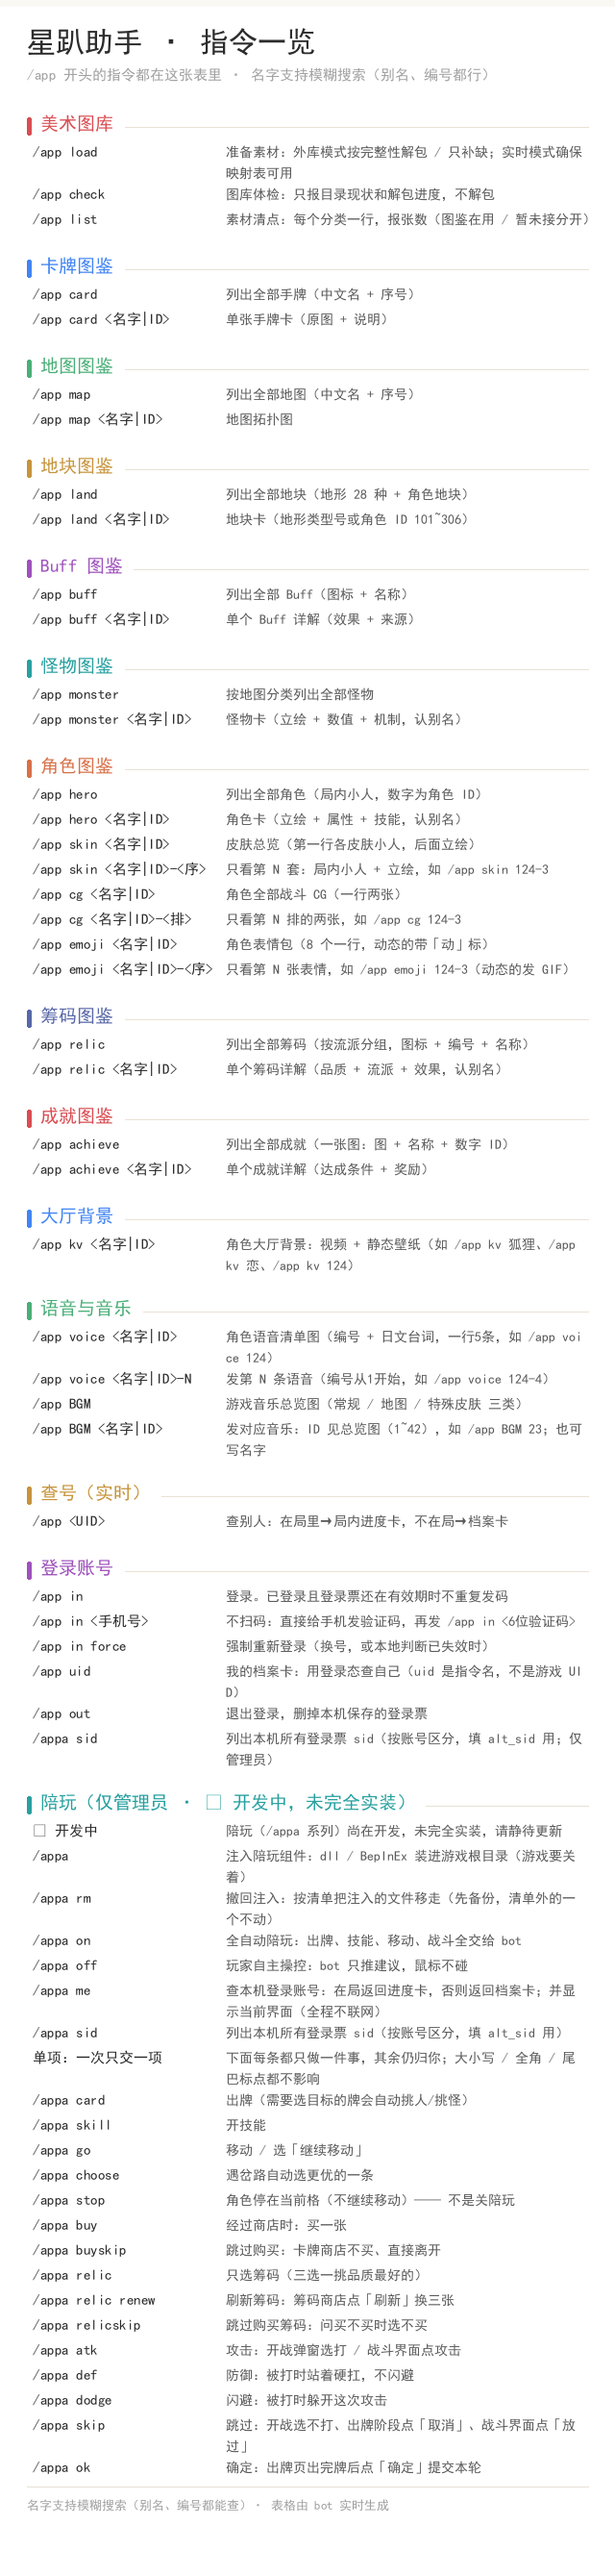
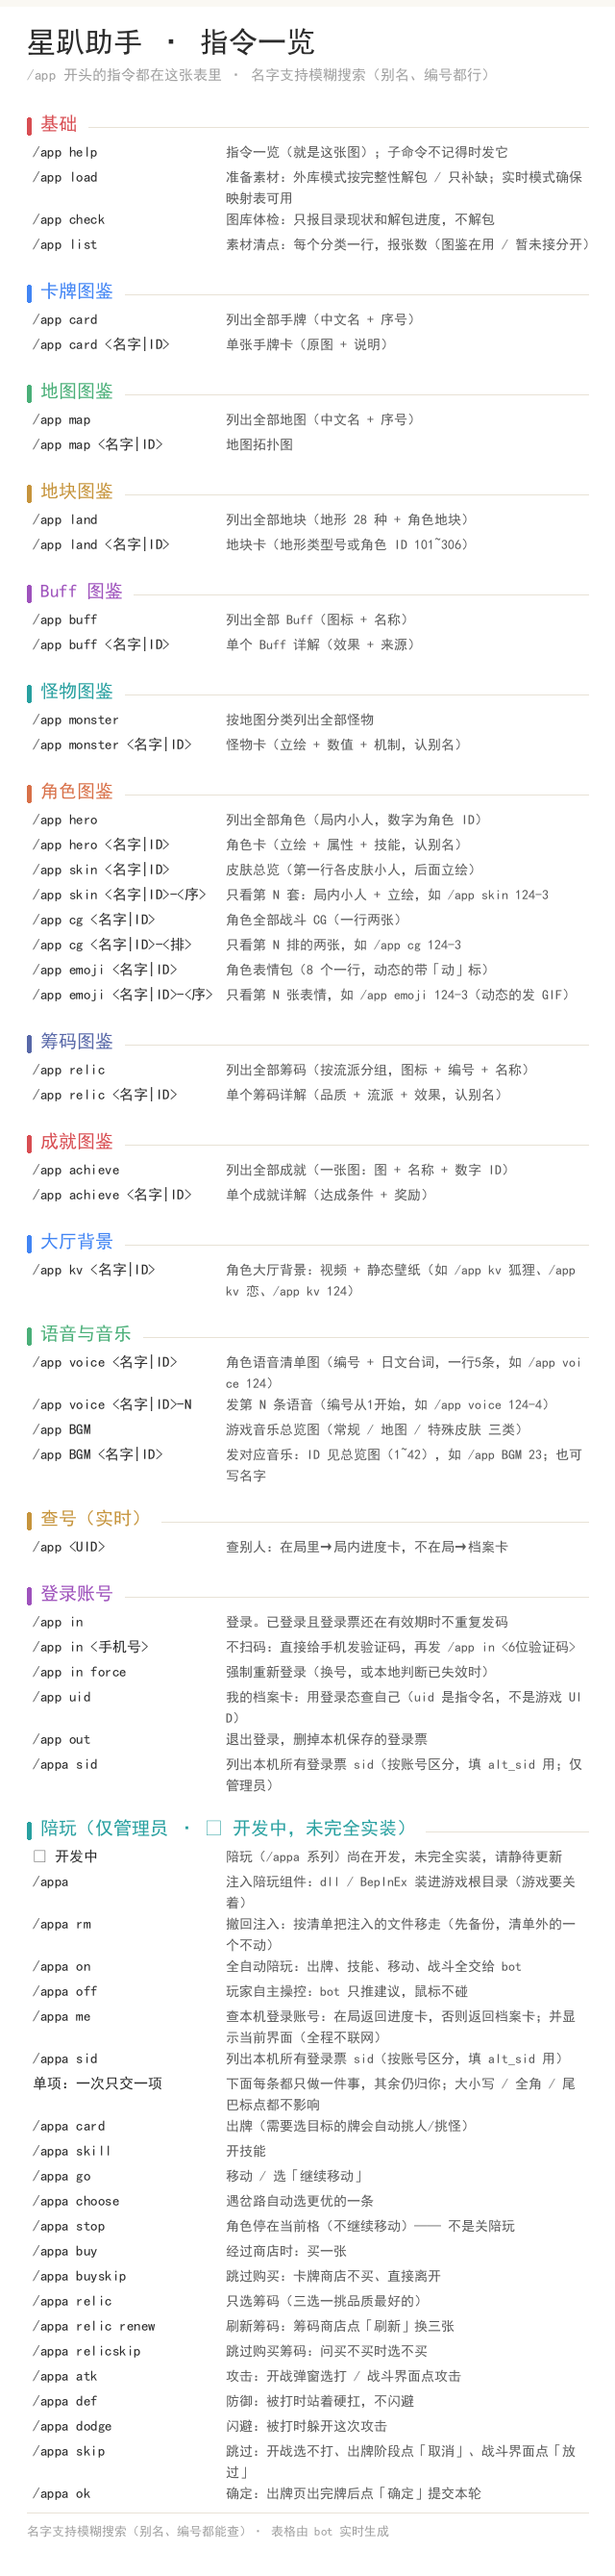
docs(help): 补 /app help 到指令一览，新增「基础」分组；按主人改动同步 README，重渲 help.png

diff --git a/main.py b/main.py
@@ -90,7 +90,8 @@ def _profile_text(d: dict) -> str:
 
 # 指令一览：图片卡和纯文本都从这份数据生成，改一处两边同步
 HELP_SECTIONS = [
-    ("🖼", "美术图库", [
+    ("💡", "基础", [
+        ("/app help", "指令一览（就是这张图）；子命令不记得时发它"),
         ("/app load", "准备素材：外库模式按完整性解包 / 只补缺；实时模式确保映射表可用"),
         ("/app check", "图库体检：只报目录现状和解包进度，不解包"),
         ("/app list", "素材清点：每个分类一行，报张数（图鉴在用 / 暂未接分开）"),

diff --git a/README.md b/README.md
@@ -43,65 +43,65 @@
 
 ![指令一览（发送 /app help 的渲染图）](docs/help.png)
 
-| 指令                      | 说明                                                             |
-| ----------------------- | -------------------------------------------------------------- |
-| `/app help`             | 指令一览                                                           |
-| `/app load`             | 解包美术素材，可完整性检验                                                  |
-| `/app check`            | 返回目录现状和解包配置                                                    |
-| `/app list`             | 素材清点，每类一行                                                      |
-| `/app card`             | 列出所有手牌中文名与序号                                                   |
-| `/app card <名字\|ID>`    | 渲染手牌简介卡（原图 + 说明）                                               |
-| `/app map`              | 列出所有地图中文名与序号                                                   |
-| `/app map <名字\|ID>`     | 渲染地图拓扑图                                                        |
-| `/app land`             | 全部地块（地形 28 种 + 角色地块）                                           |
-| `/app land <名字\|ID>`    | 地块卡（地形类型号或角色 ID 101~306）                                       |
-| `/app buff`             | 全 Buff 图鉴                                                      |
-| `/app buff <名字\|ID>`    | 单个 Buff 详解（效果 + 来源）                                            |
-| `/app monster`          | 按地图分类列出所有怪物                                                    |
-| `/app monster <名字\|ID>` | 怪物简介卡（立绘 + 数值 + 机制，支持别名与模糊匹配）                                  |
-| `/app hero`             | 全角色图鉴                                                          |
-| `/app hero <名字\|ID>`    | 角色简介卡（立绘 + 属性 + 技能，支持别名与模糊匹配）                                  |
-| `/app skin <名字\|ID>`    | 角色皮肤一览                                                         |
-| `/app skin <名字\|ID>-<序>` | 只看第 N 套皮肤：局内小人 + 立绘，如 `/app skin 124-3`|
-| `/app cg <名字\|ID>`      | 角色战斗 CG                                                        |
-| `/app cg <名字\|ID>-<排>`   | 只看第 N 排的两张 CG，如 `/app cg 124-3`|
-| `/app emoji <名字\|ID>`   | 角色表情包（动态那张右上角带「动」标）                                        |
-| `/app emoji <名字\|ID>-<序>` | 只看第 N 张表情，如 `/app emoji 124-3`；动态表情直接发 GIF                     |
-| `/app relic`            | 全筹码图鉴（按流派分组）                                                   |
-| `/app relic <名字\|ID>`   | 单筹码详情（品质 + 流派 + 效果说明，认别名）                                      |
-| `/app achieve`          | 全成就图鉴                                                          |
-| `/app achieve <名字\|ID>` | 单成就详情（达成条件 + 奖励）                                               |
-| `/app kv <名字\|ID>` | 角色大厅背景：**视频 + 静态壁纸**（认编号/名字/别名，如 `/app kv 狐狸`、`/app kv 恋`、`/app kv 124`；输出每段约 5 秒循环视频） |
-| `/app voice <名字\|ID>` | 角色语音清单图（编号 + 日文台词，一行 5 条；认编号/名字/别名） |
-| `/app voice <名字\|ID>-<N>` | 试听第 N 条语音（编号从 1 起，如 `/app voice 124-5`） |
-| `/app BGM` | 游戏音乐总览图：常规 / 地图 / 特殊皮肤 三类，ID 1~42 |
-| `/app BGM <名字\|ID>` | 听对应音乐（ID 见总览图 1~42），如 `/app BGM 23`、`/app BGM 龙宫 I阶段` |
-| `/app <UID>`            | 查别人，在局返回进度卡，否则返回档案卡（需要小号登录票防顶主号，获取`sid`指令为`/appa sid`）         |
-| `/app in`               | 登录账号：扫描二维码`feimo`通行证验证码登录                                      |
-| `/app in <手机号>`         | 扫码失败或网页访问失败，直接给该手机号发验证码（`/app in <6位验证码>` 完成登录）                |
-| `/app uid`              | 我的档案卡：用登录态查自己（`uid` 是指令名，不是游戏 UID）                             |
-| `/app out`              | 退出登录，删掉本机保存的登录票                                                |
-| `/appa`                 | 注入陪玩组件：`dll / BepInEx` 装进游戏根目录（请先关闭游戏） |
-| `/appa rm`              | 撤回注入：按注入清单移除所有注入的文件（备份到游戏根目录 `_pilot_backup\uninstall-时间戳\`） |
-| `/appa on`              | 全自动陪玩：出牌、技能、移动、战斗全交给 bot |
-| `/appa off`             | 玩家自主操控：bot 只推建议，鼠标不碰 |
-| `/appa me`              | 查本机登录账号：在局返回进度卡，否则返回档案卡；回执里附**当前界面**（含探针页面栈原始读数，便于核对） |
-| `/appa sid`             | 列出本机所有登录票 `sid`（按账号区分，填 `alt_sid` 用，仅管理员） |
-| `/appa card`            | 出牌（需要选目标的牌会自动挑人 / 挑怪） |
-| `/appa skill`           | 开技能 |
-| `/appa go`              | 移动 / 选「继续移动」 |
-| `/appa choose`          | 岔路自动选更优的一条 |
-| `/appa stop`            | 角色停在当前格、不继续移动（**不是关陪玩**，关陪玩发 `/appa off`） |
-| `/appa buy`             | 经过商店时：买一张 |
-| `/appa buyskip`         | 跳过购买：卡牌商店不买、直接离开 |
-| `/appa relic`           | 选筹码（三选一挑品质最好的） |
-| `/appa relic renew`     | 刷新筹码：筹码商店点「刷新」换三张（花金币） |
-| `/appa relicskip`       | 跳过购买筹码：问买不买时选不买 |
-| `/appa atk`             | 攻击：开战弹窗选打 / 战斗界面点攻击 |
-| `/appa def`             | 防御：被打时站着硬扛（不闪避） |
-| `/appa dodge`           | 闪避：被打时躲开这次攻击 |
-| `/appa skip`            | 跳过：开战选不打、出牌阶段点「取消」、战斗界面点「放过」 |
-| `/appa ok`              | 确定：出牌页出完牌后点「确定」提交本轮 |
+| 指令                      | 说明                                                                                     |
+| ----------------------- | -------------------------------------------------------------------------------------- |
+| `/app help`             | 指令一览                                                                                   |
+| `/app load`             | 解包美术素材，可完整性检验                                                                          |
+| `/app check`            | 返回目录现状和解包配置                                                                            |
+| `/app list`             | 素材清点，每类一行                                                                              |
+| `/app card`             | 列出所有手牌中文名与序号                                                                           |
+| `/app card <名字\|ID>`    | 渲染手牌简介卡（原图 + 说明）                                                                       |
+| `/app map`              | 列出所有地图中文名与序号                                                                           |
+| `/app map <名字\|ID>`     | 渲染地图拓扑图                                                                                |
+| `/app land`             | 全部地块（地形 28 种 + 角色地块）                                                                   |
+| `/app land <名字\|ID>`    | 地块卡（地形类型号或角色 ID 101~306）                                                               |
+| `/app buff`             | 全 Buff 图鉴                                                                              |
+| `/app buff <名字\|ID>`    | 单个 Buff 详解（效果 + 来源）                                                                    |
+| `/app monster`          | 按地图分类列出所有怪物                                                                            |
+| `/app monster <名字\|ID>` | 怪物简介卡（立绘 + 数值 + 机制，支持别名与模糊匹配）                                                          |
+| `/app hero`             | 全角色图鉴                                                                                  |
+| `/app hero <名字\|ID>`    | 角色简介卡（立绘 + 属性 + 技能，支持别名与模糊匹配）                                                          |
+| `/app skin <名字\|ID>`    | 角色皮肤一览                                                                                 |
+| `/app skin <名字\|ID>-N`  | 只看第 N 套皮肤：局内小人 + 立绘，如 `/app skin 124-3`                                                |
+| `/app cg <名字\|ID>`      | 角色战斗 CG                                                                                |
+| `/app cg <名字\|ID>-N`    | 只看第 N 排的两张 CG，如 `/app cg 124-3`                                                        |
+| `/app emoji <名字\|ID>`   | 角色表情包（动态那张右上角带「动」标）                                                                    |
+| `/app emoji <名字\|ID>-N` | 只看第 N 张表情，如 `/app emoji 124-3`；动态表情直接发 GIF                                             |
+| `/app relic`            | 全筹码图鉴（按流派分组）                                                                           |
+| `/app relic <名字\|ID>`   | 单筹码详情（品质 + 流派 + 效果说明，认别名）                                                              |
+| `/app achieve`          | 全成就图鉴                                                                                  |
+| `/app achieve <名字\|ID>` | 单成就详情（达成条件 + 奖励）                                                                       |
+| `/app kv <名字\|ID>`      | 角色大厅背景：**视频 + 静态壁纸**（认编号/名字/别名，如 `/app kv 狐狸`、`/app kv 恋`、`/app kv 124`；输出每段约 5 秒循环视频） |
+| `/app voice <名字\|ID>`   | 角色语音清单图（编号 + 日文台词，一行 5 条；认编号/名字/别名）                                                    |
+| `/app voice <名字\|ID>-N` | 试听第 N 条语音（编号从 1 起，如 `/app voice 124-5`）                                                |
+| `/app BGM`              | 游戏音乐总览图：常规 / 地图 / 特殊皮肤 三类，ID 1~42                                                      |
+| `/app BGM <名字\|ID>`     | 听对应音乐（ID 见总览图 1~42），如 `/app BGM 23`、`/app BGM 龙宫 I阶段`                                  |
+| `/app <UID>`            | 查别人，在局返回进度卡，否则返回档案卡（需要小号登录票防顶主号，获取`sid`指令为`/appa sid`）                                 |
+| `/app in`               | 登录账号：扫描二维码`feimo`通行证验证码登录                                                              |
+| `/app in <手机号>`         | 扫码失败或网页访问失败，直接给该手机号发验证码（`/app in <6位验证码>` 完成登录）                                        |
+| `/app uid`              | 我的档案卡：用登录态查自己（`uid` 是指令名，不是游戏 UID）                                                     |
+| `/app out`              | 退出登录，删掉本机保存的登录票                                                                        |
+| `/appa`                 | 注入陪玩组件：`dll / BepInEx` 装进游戏根目录（请先关闭游戏）                                                 |
+| `/appa rm`              | 撤回注入：按注入清单移除所有注入的文件（备份到游戏根目录 `_pilot_backup\uninstall-时间戳\`）                           |
+| `/appa on`              | 全自动陪玩：出牌、技能、移动、战斗全交给 bot                                                               |
+| `/appa off`             | 玩家自主操控：bot 只推建议，鼠标不碰                                                                   |
+| `/appa me`              | 查本机登录账号：在局返回进度卡，否则返回档案卡；回执里附**当前界面**（含探针页面栈原始读数，便于核对）                                  |
+| `/appa sid`             | 列出本机所有登录票 `sid`（按账号区分，填 `alt_sid` 用，仅管理员）                                              |
+| `/appa card`            | 出牌（需要选目标的牌会自动挑人 / 挑怪）                                                                  |
+| `/appa skill`           | 开技能                                                                                    |
+| `/appa go`              | 移动 / 选「继续移动」                                                                           |
+| `/appa choose`          | 岔路自动选更优的一条                                                                             |
+| `/appa stop`            | 角色停在当前格、不继续移动（**不是关陪玩**，关陪玩发 `/appa off`）                                              |
+| `/appa buy`             | 经过商店时：买一张                                                                              |
+| `/appa buyskip`         | 跳过购买：卡牌商店不买、直接离开                                                                       |
+| `/appa relic`           | 选筹码（三选一挑品质最好的）                                                                         |
+| `/appa relic renew`     | 刷新筹码：筹码商店点「刷新」换三张（花金币）                                                                 |
+| `/appa relicskip`       | 跳过购买筹码：问买不买时选不买                                                                        |
+| `/appa atk`             | 攻击：开战弹窗选打 / 战斗界面点攻击                                                                    |
+| `/appa def`             | 防御：被打时站着硬扛（不闪避）                                                                        |
+| `/appa dodge`           | 闪避：被打时躲开这次攻击                                                                           |
+| `/appa skip`            | 跳过：开战选不打、出牌阶段点「取消」、战斗界面点「放过」                                                           |
+| `/appa ok`              | 确定：出牌页出完牌后点「确定」提交本轮                                                                    |
 
 > 每个子命令都是独占的：只执行这一次，方便单项调试；
 > 子命令**大小写、全角、尾巴标点都不影响**：`/appa OK`、`/appa ＯＫ`、`/appa ok。` 都能命中同一个动作。
@@ -337,7 +337,7 @@ logs/                 陪玩进程 pid、stdout、每日运行日志
 
 **如果使用本插件时遇到任何问题，欢迎联系：1543648046@qq.com**
 
-提 issue 也行：[GitHub Issues](https://github.com/Ruoyuezero/astrbot_plugin_astralparty_pilot/issues)
+或者提 issue ：[GitHub Issues](https://github.com/Ruoyuezero/astrbot_plugin_astralparty_pilot/issues)
 
 ---
 
